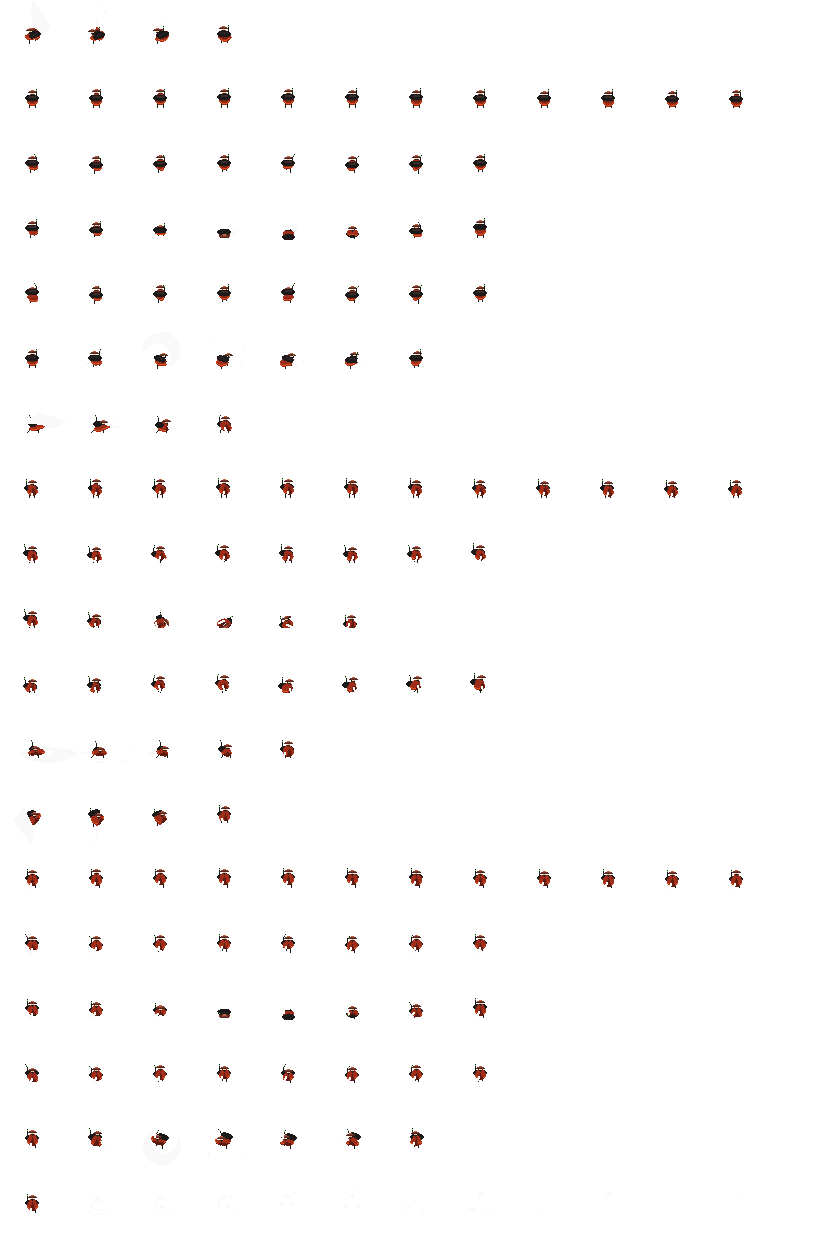
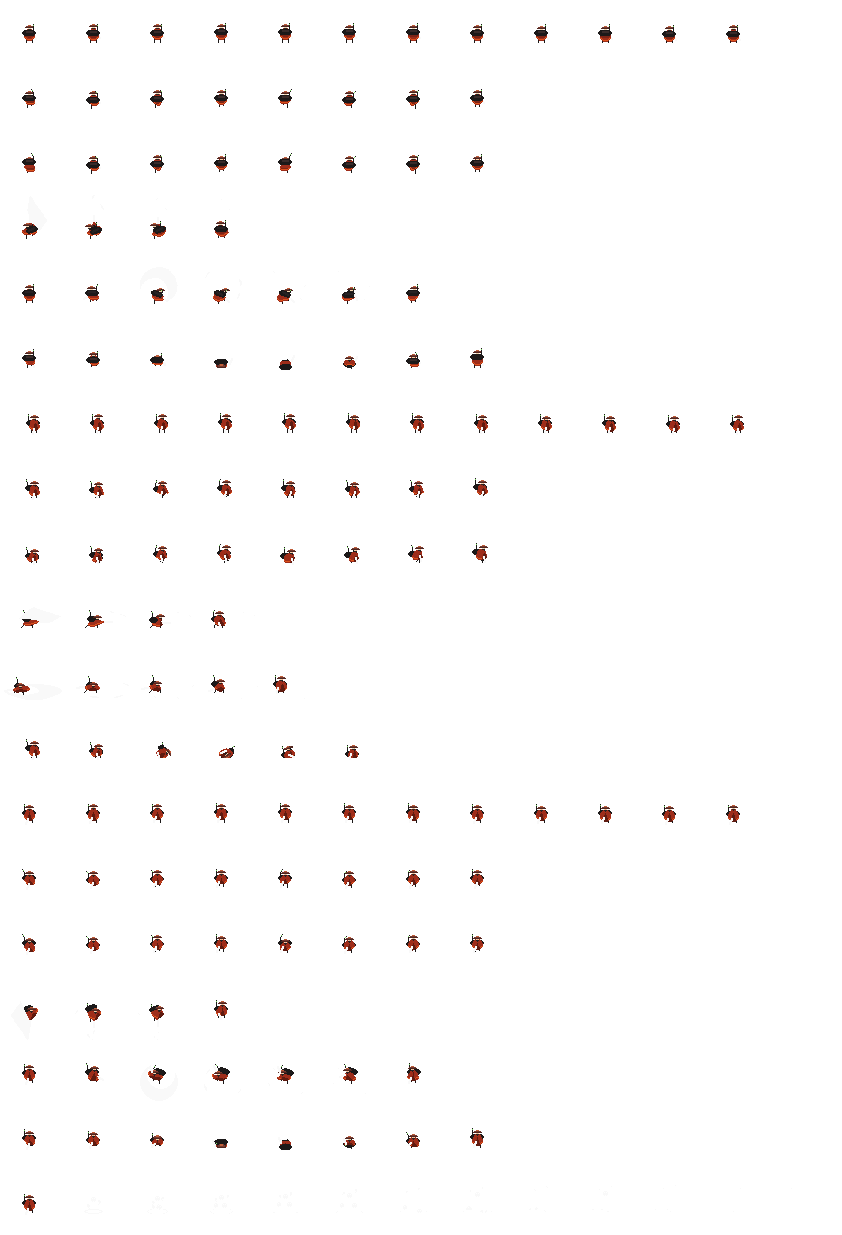
fixed spritsheet animations
thank you extremeonline

diff --git a/game/player/player.py b/game/player/player.py
@@ -52,7 +52,7 @@ class Player(AnimatedSprite):
     def load_animations(self, frame_width : int, frame_height : int) -> dict:
         animations = {}
         directions = ['up', 'right', 'down', 'left']
-        actions = ['chop', 'idle', 'move', 'roll', 'run', 'slash']
+        actions = ['idle', 'move', 'run', 'chop', 'slash', 'roll']
         frame_counts = {
             'idle': 12,
             'move': 8,
